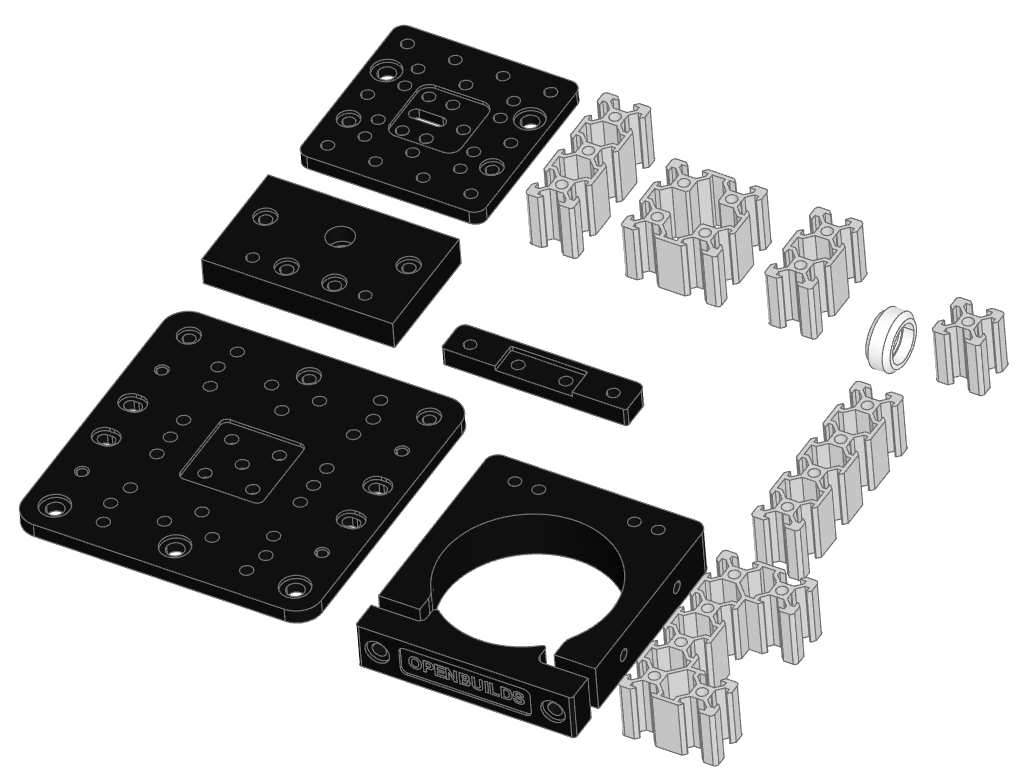
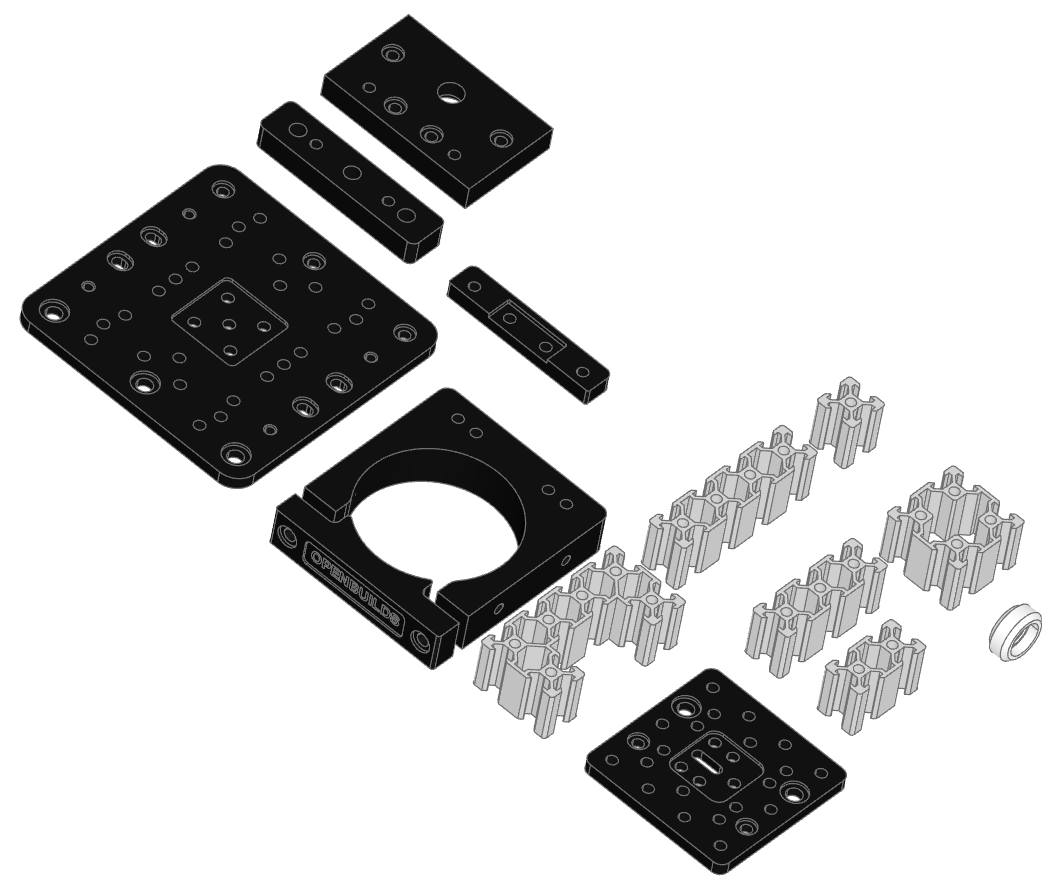
Adding SpacerBlock

diff --git a/src/bd_warehouse/open_builds.py b/src/bd_warehouse/open_builds.py
@@ -571,6 +571,56 @@ class RouterSpindleMount(BasePartObject):
             RigidJoint(f"bottom_{label}", self, pos * Pos(0, 0, -thickness))
 
 
+class SpacerBlock(BasePartObject):
+    """Part Object: OpenBuilds Spacer Block
+
+    This Spacer Block allows you to raise the V-Slot Gantry Plate up away from the rail
+    12mm so that you can run transmission components such as a Belt Drive or Threaded Rod
+    underneath the V-Slot Gantry Plate.
+
+    Product Features:
+        - Adds transmission spacing to any V-Slot Liner Actuators
+        - Compatible with multiple OpenBuilds plates
+
+    Specifications:
+        - Size: 86.4 x 20mm
+        - Thickness: 12mm
+        - M5 Tapped Holes to allow mounting to the V-Slot Gantry Plate
+        - 3 Holes that allow for mounting of full size OpenBuilds Wheels
+        - Anodized Aluminum
+        - Color: Black
+
+    Args:
+        rotation (RotationLike, optional): angles to rotate about axes. Defaults to (0, 0, 0).
+        align (Union[Align, tuple[Align, Align, Align]], optional): align min, center,
+            or max of object. Defaults to (Align.CENTER, Align.CENTER, Align.MIN).
+        mode (Mode, optional): combine mode. Defaults to Mode.ADD.
+    """
+
+    _applies_to = [BuildPart._tag]
+
+    def __init__(
+        self,
+        rotation: RotationLike = (0, 0, 0),
+        align: Union[None, Align, tuple[Align, Align, Align]] = None,
+        mode: Mode = Mode.ADD,
+    ):
+
+        with BuildPart() as plate:
+            with BuildSketch() as bs:
+                RectangleRounded(86.4, 20, 3.36)
+                with GridLocations(30, 0, 3, 1):
+                    Circle(3.6, mode=Mode.SUBTRACT)
+            extrude(amount=12)
+            with Locations((0, 0, 12)):
+                with GridLocations(40, 0, 2, 1):
+                    ThreadedHole(m5, counter_sunk=False, depth=12)
+
+        super().__init__(plate.part, rotation=rotation, align=align, mode=mode)
+        self.color = Color(0x020202)
+        self.label = "CBeamRiserPlate"
+
+
 class _VSlotGroove(BaseSketchObject):
     """Sketch Object: OpenBuilds V Slot Linear Rail Groove
 
@@ -875,6 +925,7 @@ if __name__ == "__main__":
                 CBeamGantryPlateXLarge(),
                 CBeamRiserPlate(),
                 RouterSpindleMount().rotate(Axis.Z, 180),
+                SpacerBlock(),
                 VSlotLinearRail("20x20", 25),
                 VSlotLinearRail("20x40", 25),
                 VSlotLinearRail("20x60", 25),

diff --git a/docs/openbuilds.rst b/docs/openbuilds.rst
@@ -24,7 +24,9 @@ Here are classes/parts provided:
 .. autoclass:: CBeamGantryPlateXLarge
 .. autoclass:: CBeamLinearRail
 .. autoclass:: CBeamLinearRailProfile
+.. autoclass:: CBeamRiserPlate
 .. autoclass:: RouterSpindleMount
+.. autoclass:: SpacerBlock
 .. autoclass:: VSlotLinearRail
 .. autoclass:: VSlotLinearRailProfile
 .. autoclass:: XtremeSolidVWHeel
